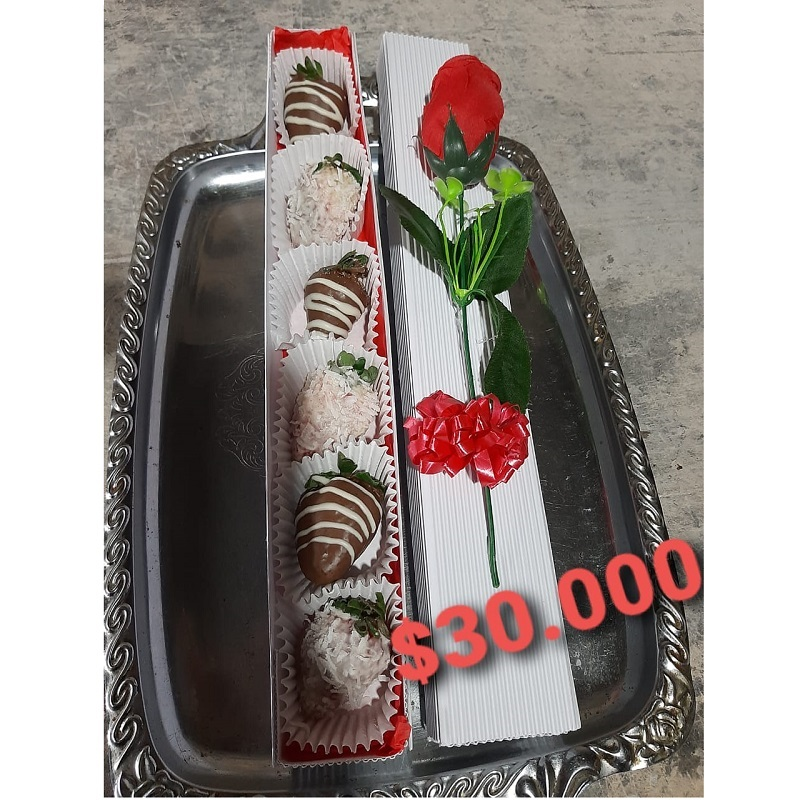
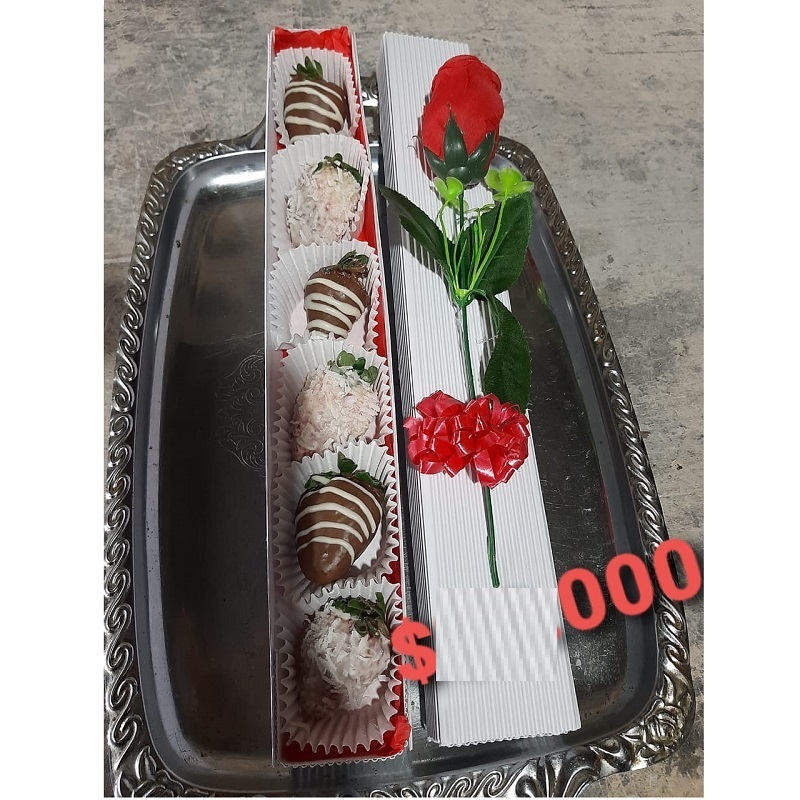
Se realiza ajuste a precios de arreglos florales para regalar

Changed region(s): [[0.5312, 0.7188, 0.7188, 0.875]]

diff --git a/index.html b/index.html
@@ -550,7 +550,7 @@
                     <div class="menu__item_hover">
                         <img src="assets/img/images/Imagenes Floristeria/pagina 6/pag_6_foto_1.jpg" class="img-responsive" alt="...">
                         <div class="menu__item_overlay">
-                            <h3>Precio <span class="price">$85.000</span></h3>
+                            <h3>Precio <span class="price">$90.000</span></h3>
                             <a class="overlay_info" href="assets/img/images/Imagenes Floristeria/pagina 6/pag_6_foto_1.jpg" data-lightbox="gallery">Ampliar Foto</a>
                         </div>
                     </div>
@@ -559,7 +559,7 @@
                     <div class="menu__item_hover">
                         <img src="assets/img/images/Imagenes Floristeria/pagina 6/pag_6_foto_2.jpeg" class="img-responsive" alt="...">
                         <div class="menu__item_overlay">
-                            <h3>Precio <span class="price">$30.000 C/U</span></h3>
+                            <h3>Precio <span class="price">$60.000 C/U</span></h3>
                             <a class="overlay_info" href="assets/img/images/Imagenes Floristeria/pagina 6/pag_6_foto_2.jpeg" data-lightbox="gallery">Ampliar Foto</a>
                         </div>
                     </div>
@@ -568,7 +568,7 @@
                     <div class="menu__item_hover">
                         <img src="assets/img/images/Imagenes Floristeria/pagina 6/pag_6_foto_3.jpg" class="img-responsive" alt="...">
                         <div class="menu__item_overlay">
-                            <h3>Precio <span class="price">$</span></h3>
+                            <h3>Precio <span class="price">$150.000</span></h3>
                             <a class="overlay_info" href="assets/img/images/Imagenes Floristeria/pagina 6/pag_6_foto_3.jpg" data-lightbox="gallery">Ampliar Foto</a>
                         </div>
                     </div>
@@ -577,7 +577,7 @@
                     <div class="menu__item_hover">
                         <img src="assets/img/images/Imagenes Floristeria/pagina 6/pag_6_foto_4.jpeg" class="img-responsive" alt="...">
                         <div class="menu__item_overlay">
-                            <h3>Precio <span class="price">$50.000</span></h3>
+                            <h3>Precio <span class="price">$80.000</span></h3>
                             <a class="overlay_info" href="assets/img/images/Imagenes Floristeria/pagina 6/pag_6_foto_4.jpeg" data-lightbox="gallery">Ampliar Foto</a>
                         </div>
                     </div>
@@ -586,7 +586,7 @@
                     <div class="menu__item_hover">
                         <img src="assets/img/images/Imagenes Floristeria/pagina 6/pag_6_foto_5.jpeg" class="img-responsive" alt="...">
                         <div class="menu__item_overlay">
-                            <h3>Precio <span class="price">$70.000</span></h3>
+                            <h3>Precio <span class="price">$150.000</span></h3>
                             <a class="overlay_info" href="assets/img/images/Imagenes Floristeria/pagina 6/pag_6_foto_5.jpeg" data-lightbox="gallery">Ampliar Foto</a>
                         </div>
                     </div>
@@ -595,7 +595,7 @@
                     <div class="menu__item_hover">
                         <img src="assets/img/images/Imagenes Floristeria/pagina 6/pag_6_foto_6.jpeg" class="img-responsive" alt="...">
                         <div class="menu__item_overlay">
-                            <h3>Precio <span class="price">$80.000</span></h3>
+                            <h3>Precio <span class="price">$180.000</span></h3>
                             <a class="overlay_info" href="assets/img/images/Imagenes Floristeria/pagina 6/pag_6_foto_6.jpeg" data-lightbox="gallery">Ampliar Foto</a>
                         </div>
                     </div>
@@ -604,7 +604,7 @@
                     <div class="menu__item_hover">
                         <img src="assets/img/images/Imagenes Floristeria/pagina 7/pag_7_foto_1.jpeg" class="img-responsive" alt="...">
                         <div class="menu__item_overlay">
-                            <h3>Precio <span class="price">$50.000</span></h3>
+                            <h3>Precio <span class="price">$70.000</span></h3>
                             <a class="overlay_info" href="assets/img/images/Imagenes Floristeria/pagina 7/pag_7_foto_1.jpeg" data-lightbox="gallery">Ampliar Foto</a>
                         </div>
                     </div>
@@ -613,7 +613,7 @@
                     <div class="menu__item_hover">
                         <img src="assets/img/images/Imagenes Floristeria/pagina 7/pag_7_foto_2.jpeg" class="img-responsive" alt="...">
                         <div class="menu__item_overlay">
-                            <h3>Precio <span class="price">$80.000</span></h3>
+                            <h3>Precio <span class="price">$120.000</span></h3>
                             <a class="overlay_info" href="assets/img/images/Imagenes Floristeria/pagina 7/pag_7_foto_2.jpeg" data-lightbox="gallery">Ampliar Foto</a>
                         </div>
                     </div>
@@ -622,7 +622,7 @@
                     <div class="menu__item_hover">
                         <img src="assets/img/images/Imagenes Floristeria/pagina 7/pag_7_foto_3.jpeg" class="img-responsive" alt="...">
                         <div class="menu__item_overlay">
-                            <h3>Precio <span class="price">$50.000</span></h3>
+                            <h3>Precio <span class="price">$70.000</span></h3>
                             <a class="overlay_info" href="assets/img/images/Imagenes Floristeria/pagina 7/pag_7_foto_3.jpeg" data-lightbox="gallery">Ampliar Foto</a>
                         </div>
                     </div>
@@ -631,7 +631,7 @@
                     <div class="menu__item_hover">
                         <img src="assets/img/images/Imagenes Floristeria/pagina 7/pag_7_foto_4.jpeg" class="img-responsive" alt="...">
                         <div class="menu__item_overlay">
-                            <h3>Precio <span class="price">$30.000</span></h3>
+                            <h3>Precio <span class="price">$50.000</span></h3>
                             <a class="overlay_info" href="assets/img/images/Imagenes Floristeria/pagina 7/pag_7_foto_4.jpeg" data-lightbox="gallery">Ampliar Foto</a>
                         </div>
                     </div>
@@ -640,7 +640,7 @@
                     <div class="menu__item_hover">
                         <img src="assets/img/images/Imagenes Floristeria/pagina 7/pag_7_foto_5.jpeg" class="img-responsive" alt="...">
                         <div class="menu__item_overlay">
-                            <h3>Precio <span class="price">$45.000</span></h3>
+                            <h3>Precio <span class="price">$60.000</span></h3>
                             <a class="overlay_info" href="assets/img/images/Imagenes Floristeria/pagina 7/pag_7_foto_5.jpeg" data-lightbox="gallery">Ampliar Foto</a>
                         </div>
                     </div>
@@ -649,7 +649,7 @@
                     <div class="menu__item_hover">
                         <img src="assets/img/images/Imagenes Floristeria/pagina 7/pag_7_foto_6.jpeg" class="img-responsive" alt="...">
                         <div class="menu__item_overlay">
-                            <h3>Precio <span class="price">$70.000</span></h3>
+                            <h3>Precio <span class="price">$100.000</span></h3>
                             <a class="overlay_info" href="assets/img/images/Imagenes Floristeria/pagina 7/pag_7_foto_6.jpeg" data-lightbox="gallery">Ampliar Foto</a>
                         </div>
                     </div>
@@ -658,7 +658,7 @@
                     <div class="menu__item_hover">
                         <img src="assets/img/images/Imagenes Floristeria/pagina 8/pag_8_foto_1.jpeg" class="img-responsive" alt="...">
                         <div class="menu__item_overlay">
-                            <h3>Precio <span class="price">$70.000</span></h3>
+                            <h3>Precio <span class="price">$100.000</span></h3>
                             <a class="overlay_info" href="assets/img/images/Imagenes Floristeria/pagina 8/pag_8_foto_1.jpeg" data-lightbox="gallery">Ampliar Foto</a>
                         </div>
                     </div>
@@ -667,7 +667,7 @@
                     <div class="menu__item_hover">
                         <img src="assets/img/images/Imagenes Floristeria/pagina 8/pag_8_foto_2.jpeg" class="img-responsive" alt="...">
                         <div class="menu__item_overlay">
-                            <h3>Precio <span class="price">$40.000</span></h3>
+                            <h3>Precio <span class="price">$70.000</span></h3>
                             <a class="overlay_info" href="assets/img/images/Imagenes Floristeria/pagina 8/pag_8_foto_2.jpeg" data-lightbox="gallery">Ampliar Foto</a>
                         </div>
                     </div>
@@ -676,7 +676,7 @@
                     <div class="menu__item_hover">
                         <img src="assets/img/images/Imagenes Floristeria/pagina 8/pag_8_foto_3.jpeg" class="img-responsive" alt="...">
                         <div class="menu__item_overlay">
-                            <h3>Precio <span class="price">$80.000</span></h3>
+                            <h3>Precio <span class="price">$100.000</span></h3>
                             <a class="overlay_info" href="assets/img/images/Imagenes Floristeria/pagina 8/pag_8_foto_3.jpeg" data-lightbox="gallery">Ampliar Foto</a>
                         </div>
                     </div>
@@ -685,7 +685,7 @@
                     <div class="menu__item_hover">
                         <img src="assets/img/images/Imagenes Floristeria/pagina 8/pag_8_foto_4.jpeg" class="img-responsive" alt="...">
                         <div class="menu__item_overlay">
-                            <h3>Precio <span class="price">$30.000</span></h3>
+                            <h3>Precio <span class="price">$50.000</span></h3>
                             <a class="overlay_info" href="assets/img/images/Imagenes Floristeria/pagina 8/pag_8_foto_4.jpeg" data-lightbox="gallery">Ampliar Foto</a>
                         </div>
                     </div>
@@ -694,7 +694,7 @@
                     <div class="menu__item_hover">
                         <img src="assets/img/images/Imagenes Floristeria/pagina 8/pag_8_foto_5.jpeg" class="img-responsive" alt="...">
                         <div class="menu__item_overlay">
-                            <h3>Precio <span class="price">$60.000</span></h3>
+                            <h3>Precio <span class="price">$80.000</span></h3>
                             <a class="overlay_info" href="assets/img/images/Imagenes Floristeria/pagina 8/pag_8_foto_5.jpeg" data-lightbox="gallery">Ampliar Foto</a>
                         </div>
                     </div>
@@ -703,7 +703,7 @@
                     <div class="menu__item_hover">
                         <img src="assets/img/images/Imagenes Floristeria/pagina 8/pag_8_foto_6.jpeg" class="img-responsive" alt="...">
                         <div class="menu__item_overlay">
-                            <h3>Precio <span class="price">$50.000</span></h3>
+                            <h3>Precio <span class="price">$80.000</span></h3>
                             <a class="overlay_info" href="assets/img/images/Imagenes Floristeria/pagina 8/pag_8_foto_6.jpeg" data-lightbox="gallery">Ampliar Foto</a>
                         </div>
                     </div>
@@ -713,7 +713,7 @@
                     <div class="menu__item_hover">
                         <img src="assets/img/images/Imagenes Floristeria/pagina 9/pag_9_foto_1.jpg" class="img-responsive" alt="...">
                         <div class="menu__item_overlay">
-                            <h3>Precio <span class="price">$</span></h3>
+                            <h3>Precio <span class="price">$90.000</span></h3>
                             <a class="overlay_info" href="assets/img/images/Imagenes Floristeria/pagina 9/pag_9_foto_1.jpg" data-lightbox="gallery">Ampliar Foto</a>
                         </div>
                     </div>
@@ -722,7 +722,7 @@
                     <div class="menu__item_hover">
                         <img src="assets/img/images/Imagenes Floristeria/pagina 9/pag_9_foto_2.jpeg" class="img-responsive" alt="...">
                         <div class="menu__item_overlay">
-                            <h3>Precio <span class="price">$60.000</span></h3>
+                            <h3>Precio <span class="price">$85.000</span></h3>
                             <a class="overlay_info" href="assets/img/images/Imagenes Floristeria/pagina 9/pag_9_foto_2.jpeg" data-lightbox="gallery">Ampliar Foto</a>
                         </div>
                     </div>
@@ -731,7 +731,7 @@
                     <div class="menu__item_hover">
                         <img src="assets/img/images/Imagenes Floristeria/pagina 9/pag_9_foto_3.jpeg" class="img-responsive" alt="...">
                         <div class="menu__item_overlay">
-                            <h3>Precio <span class="price">$40.000</span></h3>
+                            <h3>Precio <span class="price">$60.000</span></h3>
                             <a class="overlay_info" href="assets/img/images/Imagenes Floristeria/pagina 9/pag_9_foto_3.jpeg" data-lightbox="gallery">Ampliar Foto</a>
                         </div>
                     </div>
@@ -740,7 +740,7 @@
                     <div class="menu__item_hover">
                         <img src="assets/img/images/Imagenes Floristeria/pagina 9/pag_9_foto_4.jpeg" class="img-responsive" alt="...">
                         <div class="menu__item_overlay">
-                            <h3>Precio <span class="price">$40.000</span></h3>
+                            <h3>Precio <span class="price">$70.000</span></h3>
                             <a class="overlay_info" href="assets/img/images/Imagenes Floristeria/pagina 9/pag_9_foto_4.jpeg" data-lightbox="gallery">Ampliar Foto</a>
                         </div>
                     </div>
@@ -749,7 +749,7 @@
                     <div class="menu__item_hover">
                         <img src="assets/img/images/Imagenes Floristeria/pagina 9/pag_9_foto_5.jpeg" class="img-responsive" alt="...">
                         <div class="menu__item_overlay">
-                            <h3>Precio <span class="price">$40.000</span></h3>
+                            <h3>Precio <span class="price">$60.000</span></h3>
                             <a class="overlay_info" href="assets/img/images/Imagenes Floristeria/pagina 9/pag_9_foto_5.jpeg" data-lightbox="gallery">Ampliar Foto</a>
                         </div>
                     </div>
@@ -758,7 +758,7 @@
                     <div class="menu__item_hover">
                         <img src="assets/img/images/Imagenes Floristeria/pagina 9/pag_9_foto_6.jpeg" class="img-responsive" alt="...">
                         <div class="menu__item_overlay">
-                            <h3>Precio <span class="price">$70.000</span></h3>
+                            <h3>Precio <span class="price">$95.000</span></h3>
                             <a class="overlay_info" href="assets/img/images/Imagenes Floristeria/pagina 9/pag_9_foto_6.jpeg" data-lightbox="gallery">Ampliar Foto</a>
                         </div>
                     </div>
@@ -767,7 +767,7 @@
                     <div class="menu__item_hover">
                         <img src="assets/img/images/Imagenes Floristeria/pagina 10/pag_10_foto_1.jpg" class="img-responsive" alt="...">
                         <div class="menu__item_overlay">
-                            <h3>Precio <span class="price">$</span></h3>
+                            <h3>Precio <span class="price">$70.000</span></h3>
                             <p class="overlay_info" src="assets/img/images/Imagenes Floristeria/pagina 10/pag_10_foto_1.jpg"></p>
                         </div>
                     </div>
@@ -776,7 +776,7 @@
                     <div class="menu__item_hover">
                         <img src="assets/img/images/Imagenes Floristeria/pagina 10/pag_10_foto_2.jpeg" class="img-responsive" alt="...">
                         <div class="menu__item_overlay">
-                            <h3>Precio <span class="price">$50.000</span></h3>
+                            <h3>Precio <span class="price">$80.000</span></h3>
                             <p class="overlay_info" src="assets/img/images/Imagenes Floristeria/pagina 10/pag_10_foto_2.jpeg"></p>
                         </div>
                     </div>
@@ -785,7 +785,7 @@
                     <div class="menu__item_hover">
                         <img src="assets/img/images/Imagenes Floristeria/pagina 10/pag_10_foto_3.jpeg" class="img-responsive" alt="...">
                         <div class="menu__item_overlay">
-                            <h3>Precio <span class="price">$35.000</span></h3>
+                            <h3>Precio <span class="price">$50.000</span></h3>
                             <p class="overlay_info" src="assets/img/images/Imagenes Floristeria/pagina 10/pag_10_foto_3.jpeg"></p>
                         </div>
                     </div>
@@ -794,7 +794,7 @@
                     <div class="menu__item_hover">
                         <img src="assets/img/images/Imagenes Floristeria/pagina 10/pag_10_foto_4.jpeg" class="img-responsive" alt="...">
                         <div class="menu__item_overlay">
-                            <h3>Precio <span class="price">$20.000</span></h3>
+                            <h3>Precio <span class="price">$25.000</span></h3>
                             <p class="overlay_info" src="assets/img/images/Imagenes Floristeria/pagina 10/pag_10_foto_4.jpeg"></p>
                         </div>
                     </div>
@@ -803,7 +803,7 @@
                     <div class="menu__item_hover">
                         <img src="assets/img/images/Imagenes Floristeria/pagina 10/pag_10_foto_5.jpeg" class="img-responsive" alt="...">
                         <div class="menu__item_overlay">
-                            <h3>Precio <span class="price">$70.000</span></h3>
+                            <h3>Precio <span class="price">$100.000</span></h3>
                             <p class="overlay_info" src="assets/img/images/Imagenes Floristeria/pagina 10/pag_10_foto_5.jpeg"></p>
                         </div>
                     </div>
@@ -812,7 +812,7 @@
                     <div class="menu__item_hover">
                         <img src="assets/img/images/Imagenes Floristeria/pagina 10/pag_10_foto_6.jpeg" class="img-responsive" alt="...">
                         <div class="menu__item_overlay">
-                            <h3>Precio <span class="price">$30.000</span></h3>
+                            <h3>Precio <span class="price">$50.000</span></h3>
                             <p class="overlay_info" src="assets/img/images/Imagenes Floristeria/pagina 10/pag_10_foto_6.jpeg"></p>
                         </div>
                     </div>
